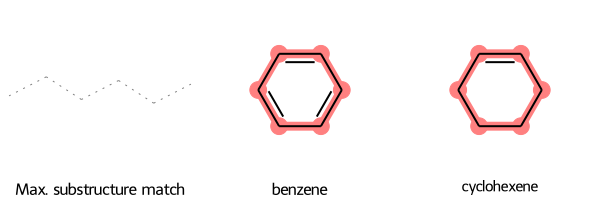
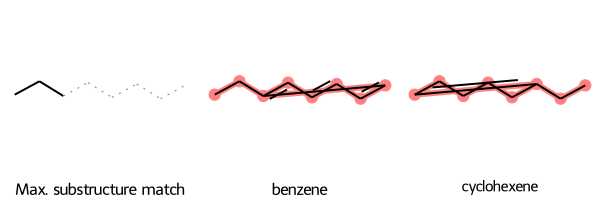
Tweak texts in RDKit blog post

diff --git a/_posts/2022-10-09-RDKit-find-and-highlight-the-maximum-common-substructure-between-molecules.md b/_posts/2022-10-09-RDKit-find-and-highlight-the-maximum-common-substructure-between-molecules.md
@@ -1,6 +1,6 @@
 # Find and Highlight the Maximum Common Substructure Between a Set of Molecules Using RDKit
 
-When analyzing a set of molecules, you might want to find the maximum common substructure (MCS) match between them. This utility function `SmilesMCStoGridImage` does that for a set of molecules specified by [SMILES](https://en.wikipedia.org/wiki/Simplified_molecular-input_line-entry_system), displays the [SMARTS](https://en.wikipedia.org/wiki/SMILES_arbitrary_target_specification) substructure as a molecule, and displays all the molecules in a grid with their substructure highlighted and that substructure aligned.
+When analyzing a set of molecules, you might want to find the maximum common substructure (MCS) match between them. This utility function `SmilesMCStoGridImage` does that for a set of molecules specified by [SMILES](https://en.wikipedia.org/wiki/Simplified_molecular-input_line-entry_system), displays the [SMARTS](https://en.wikipedia.org/wiki/SMILES_arbitrary_target_specification) substructure as a molecule, and displays all the molecules in a grid with that substructure highlighted and aligned.
 
 The key RDKit commands it uses are:
 - [`FindMCS`](https://www.rdkit.org/docs/source/rdkit.Chem.rdFMCS.html) to find the maximum common substructure (SMARTS string)
@@ -66,7 +66,7 @@ def SmilesMCStoGridImage(molecules, align_substructure=True, verbose=False, **kw
           return drawing
 ```
 
-## Examples
+## Minimal Example
 
 All you have to provide to `SmilesMCStoGridImage` is a lis of SMILES strings, and it will return a grid image:
 
@@ -79,7 +79,7 @@ SmilesMCStoGridImage(["NC1OC1", "C1OC1[N+](=O)[O-]"])
 
 
     
-![png](/images/2022-10-09-RDKit-find-and-highlight-the-maximum-common-substructure-between-molecules_files/2022-10-09-RDKit-find-and-highlight-the-maximum-common-substructure-between-molecules_6_0.png)
+![png](/images/-10-09-RDKit-find-and-highlight-the-maximum-common-substructure-between-molecules_files/2022-10-09-RDKit-find-and-highlight-the-maximum-common-substructure-between-molecules_6_0.png)
     
 
 
@@ -95,13 +95,15 @@ SmilesMCStoGridImage(["O", "c1ccccc1"])
 
 
     
-![png](/images/2022-10-09-RDKit-find-and-highlight-the-maximum-common-substructure-between-molecules_files/2022-10-09-RDKit-find-and-highlight-the-maximum-common-substructure-between-molecules_8_0.png)
+![png](/images/-10-09-RDKit-find-and-highlight-the-maximum-common-substructure-between-molecules_files/2022-10-09-RDKit-find-and-highlight-the-maximum-common-substructure-between-molecules_8_0.png)
     
 
 
 
+## Label Molecules
+
 If you want to label the molecules in the grid image, provide a *dictionary* of molecules where each
-- key is the SMILES string
+- key is the SMILES string for that molecule
 - value is the legend for that molecule, for example its name or a description
 
 
@@ -113,12 +115,14 @@ SmilesMCStoGridImage({"NC1OC1": "amine", "C1OC1[N+](=O)[O-]": "nitro"})
 
 
     
-![png](/images/2022-10-09-RDKit-find-and-highlight-the-maximum-common-substructure-between-molecules_files/2022-10-09-RDKit-find-and-highlight-the-maximum-common-substructure-between-molecules_10_0.png)
+![png](/images/-10-09-RDKit-find-and-highlight-the-maximum-common-substructure-between-molecules_files/2022-10-09-RDKit-find-and-highlight-the-maximum-common-substructure-between-molecules_11_0.png)
     
 
 
 
-If you want not just the grid image, but also the substructure match and molecule, plus the molecules for the SMILES strings, set `verbose=True`:
+## Get Additional Data
+
+If you want `SmilesMCStoGridImage` to return not just the grid image, but also the substructure match and molecule, plus the molecules for the SMILES strings, set `verbose=True`:
 
 
 ```python
@@ -136,7 +140,7 @@ drawing
 
 
     
-![png](/images/2022-10-09-RDKit-find-and-highlight-the-maximum-common-substructure-between-molecules_files/2022-10-09-RDKit-find-and-highlight-the-maximum-common-substructure-between-molecules_14_0.png)
+![png](/images/-10-09-RDKit-find-and-highlight-the-maximum-common-substructure-between-molecules_files/2022-10-09-RDKit-find-and-highlight-the-maximum-common-substructure-between-molecules_16_0.png)
     
 
 
@@ -166,7 +170,7 @@ mcs_mol
 
 
     
-![png](/images/2022-10-09-RDKit-find-and-highlight-the-maximum-common-substructure-between-molecules_files/2022-10-09-RDKit-find-and-highlight-the-maximum-common-substructure-between-molecules_18_0.png)
+![png](/images/-10-09-RDKit-find-and-highlight-the-maximum-common-substructure-between-molecules_files/2022-10-09-RDKit-find-and-highlight-the-maximum-common-substructure-between-molecules_20_0.png)
     
 
 
@@ -181,8 +185,8 @@ mols
 
 
 
-    [<rdkit.Chem.rdchem.Mol at 0x7ff1f8c6bfa0>,
-     <rdkit.Chem.rdchem.Mol at 0x7ff1f8c29100>]
+    [<rdkit.Chem.rdchem.Mol at 0x7f78a0bc0880>,
+     <rdkit.Chem.rdchem.Mol at 0x7f78b1215ca0>]
 
 
 
@@ -197,7 +201,7 @@ mols[0]
 
 
     
-![png](/images/2022-10-09-RDKit-find-and-highlight-the-maximum-common-substructure-between-molecules_files/2022-10-09-RDKit-find-and-highlight-the-maximum-common-substructure-between-molecules_22_0.png)
+![png](/images/-10-09-RDKit-find-and-highlight-the-maximum-common-substructure-between-molecules_files/2022-10-09-RDKit-find-and-highlight-the-maximum-common-substructure-between-molecules_24_0.png)
     
 
 
@@ -211,45 +215,45 @@ mols[1]
 
 
     
-![png](/images/2022-10-09-RDKit-find-and-highlight-the-maximum-common-substructure-between-molecules_files/2022-10-09-RDKit-find-and-highlight-the-maximum-common-substructure-between-molecules_23_0.png)
+![png](/images/-10-09-RDKit-find-and-highlight-the-maximum-common-substructure-between-molecules_files/2022-10-09-RDKit-find-and-highlight-the-maximum-common-substructure-between-molecules_25_0.png)
     
 
 
 
-## Caveat About Aligning Substructure
+## Caveat About Aligning Maximum Common Substructure
 The SMARTS substructure match may not match the form of the molecule. For example, if you input two six-membered carbon rings, the SMARTS substructure match is a linear chain of six carbons. So if you align the molecules to that substructure, you will get some odd-looking "rings":
 
 
 ```python
-SmilesMCStoGridImage({"c1ccccc1": "benzene", "C1CCCC=C1": "cyclohexene"})
+SmilesMCStoGridImage({"CCc1ccccc1": "benzene", "C1CCCC=C1CC": "cyclohexene"})
 ```
 
 
 
 
     
-![png](/images/2022-10-09-RDKit-find-and-highlight-the-maximum-common-substructure-between-molecules_files/2022-10-09-RDKit-find-and-highlight-the-maximum-common-substructure-between-molecules_25_0.png)
+![png](/images/-10-09-RDKit-find-and-highlight-the-maximum-common-substructure-between-molecules_files/2022-10-09-RDKit-find-and-highlight-the-maximum-common-substructure-between-molecules_27_0.png)
     
 
 
 
-To address this case, in `SmilesMCStoGridImage` you can set `align_substructure=False` (its default value is `True`):
+To address this case, in `SmilesMCStoGridImage` you can set `align_substructure=False` (its default value is `True`), with the disadvantage that the molecules may not be aligned:
 
 
 ```python
-SmilesMCStoGridImage({"c1ccccc1": "benzene", "C1CCCC=C1": "cyclohexene"}, align_substructure=False)
+SmilesMCStoGridImage({"CCc1ccccc1": "benzene", "C1CCCC=C1CC": "cyclohexene"}, align_substructure=False)
 ```
 
 
 
 
     
-![png](/images/2022-10-09-RDKit-find-and-highlight-the-maximum-common-substructure-between-molecules_files/2022-10-09-RDKit-find-and-highlight-the-maximum-common-substructure-between-molecules_27_0.png)
+![png](/images/-10-09-RDKit-find-and-highlight-the-maximum-common-substructure-between-molecules_files/2022-10-09-RDKit-find-and-highlight-the-maximum-common-substructure-between-molecules_29_0.png)
     
 
 
 
-## Passing Arguments to `FindMCS`
+## Pass Arguments to `FindMCS`
 `SmilesMCStoGridImage` will pass any keyword arguments of [`rdFMCS.FindMCS`](https://www.rdkit.org/docs/source/rdkit.Chem.rdFMCS.html) to that function. For example, by default, `rdFMCS.FindMCS` will match a pattern of atoms even if they are in a complete ring in one molecule, and not in another:
 
 
@@ -261,7 +265,7 @@ SmilesMCStoGridImage({"C1CCCCCC1CCC": "complete ring", "C1CCC1CCC": "incomplete 
 
 
     
-![png](/images/2022-10-09-RDKit-find-and-highlight-the-maximum-common-substructure-between-molecules_files/2022-10-09-RDKit-find-and-highlight-the-maximum-common-substructure-between-molecules_29_0.png)
+![png](/images/-10-09-RDKit-find-and-highlight-the-maximum-common-substructure-between-molecules_files/2022-10-09-RDKit-find-and-highlight-the-maximum-common-substructure-between-molecules_31_0.png)
     
 
 
@@ -277,14 +281,14 @@ SmilesMCStoGridImage({"C1CCCCCC1": "complete ring", "C1CCC1CCC": "incomplete rin
 
 
     
-![png](/images/2022-10-09-RDKit-find-and-highlight-the-maximum-common-substructure-between-molecules_files/2022-10-09-RDKit-find-and-highlight-the-maximum-common-substructure-between-molecules_31_0.png)
+![png](/images/-10-09-RDKit-find-and-highlight-the-maximum-common-substructure-between-molecules_files/2022-10-09-RDKit-find-and-highlight-the-maximum-common-substructure-between-molecules_33_0.png)
     
 
 
 
 ## Example With Larger Molecules
 
-Just as another example, here's a case with larger molecules:
+As a final example, here's a case with larger molecules:
 
 
 ```python
@@ -295,7 +299,7 @@ SmilesMCStoGridImage({"O=C(NCc1cc(OC)c(O)cc1)CCCC/C=C/C(C)C": "unsaturated", "CC
 
 
     
-![png](/images/2022-10-09-RDKit-find-and-highlight-the-maximum-common-substructure-between-molecules_files/2022-10-09-RDKit-find-and-highlight-the-maximum-common-substructure-between-molecules_34_0.png)
+![png](/images/-10-09-RDKit-find-and-highlight-the-maximum-common-substructure-between-molecules_files/2022-10-09-RDKit-find-and-highlight-the-maximum-common-substructure-between-molecules_36_0.png)
     
 
 

diff --git a/index.md b/index.md
@@ -11,7 +11,7 @@ Find a given number of points which satisfy constraints given in a constraints f
 
 Optionally, identify the components (dimensions) in the constraints file using chemical formulas, and Sampler will use ChemPy to calculate their molar masses, then output the component weight fraction.
 
-## [RDKit Utility to Find and Highlights Maximum Common Substructure Amongst Molecules]({% post_url 2022-10-09-RDKit-find-and-highlight-the-maximum-common-substructure-between-molecules %})
+## [RDKit Utility to Find and Highlight the Maximum Common Substructure Amongst Molecules]({% post_url 2022-10-09-RDKit-find-and-highlight-the-maximum-common-substructure-between-molecules %})
 *Uses Python and RDKit*
 
 [<img style="width:600px; height:200px" src="/images/2022-10-09-RDKit-find-and-highlight-the-maximum-common-substructure-between-molecules_files/2022-10-09-RDKit-find-and-highlight-the-maximum-common-substructure-between-molecules_10_0.png">]({% post_url 2022-10-09-RDKit-find-and-highlight-the-maximum-common-substructure-between-molecules %})
